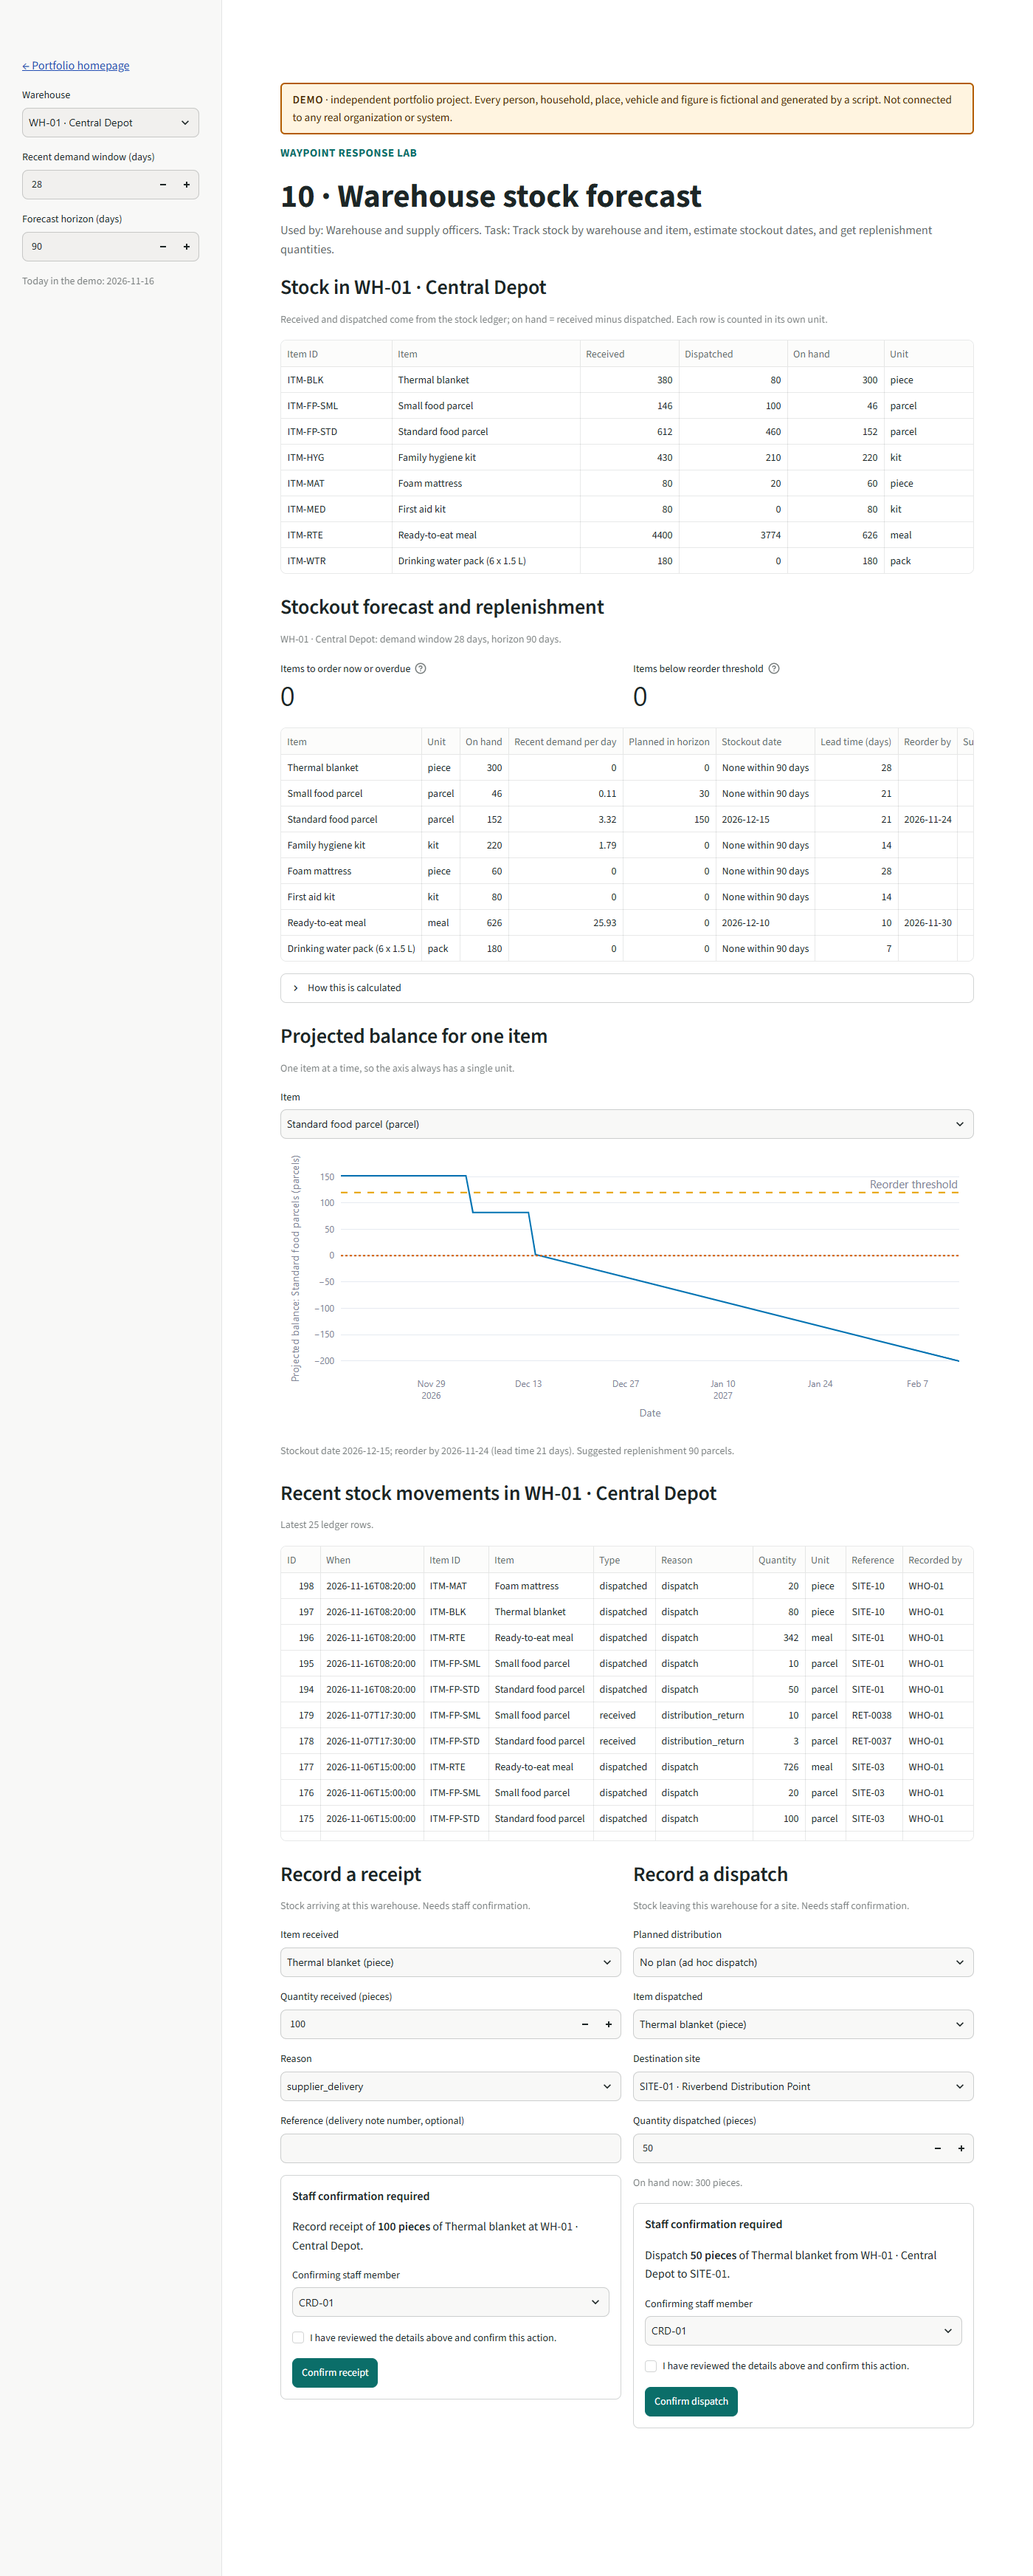
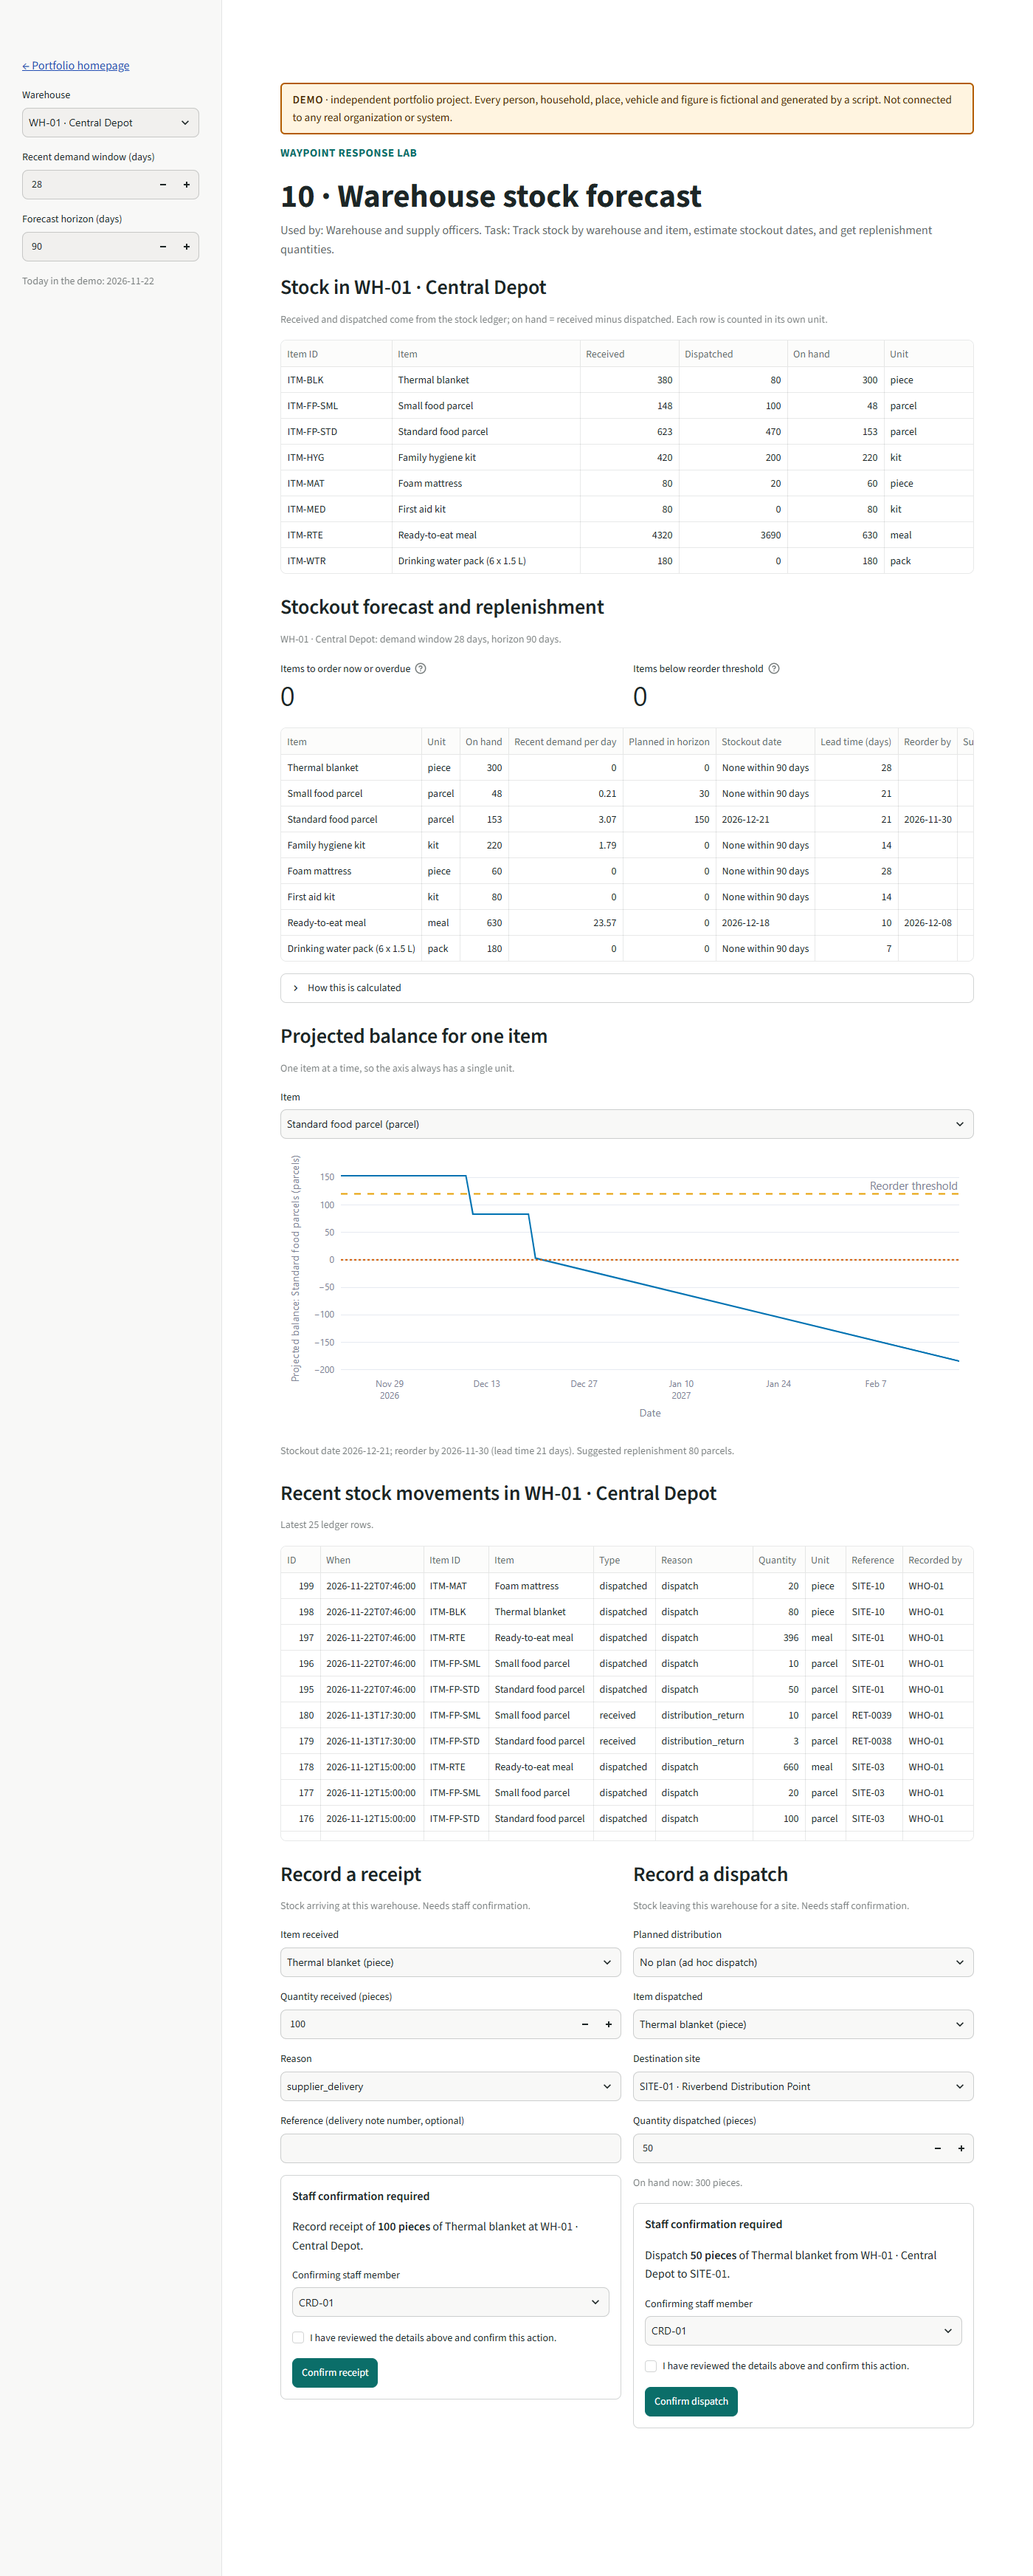
Project 10: review fixes

diff --git a/projects/10-warehouse-stock-forecast/README.md b/projects/10-warehouse-stock-forecast/README.md
@@ -55,10 +55,10 @@ Port 8510.
 
 The seeded dates move with the seed's anchor, so steps use relative dates. Values below are for the standard seed with the demo clock at its anchor day ("today"). Pick warehouse **WH-01 · Central Depot** in the sidebar.
 
-1. **Received minus dispatched equals on hand.** In the stock table find *Standard food parcel* (`ITM-FP-STD`, unit parcel). Expected: received 612, dispatched 460, on hand 152 (612 - 460 = 152).
-2. **Stockout date and replenishment.** In the forecast table, same row. Expected: planned in horizon 150 parcels (two open plans, `PLN-0051` 70 parcels about 19 days ahead and `PLN-0057` 80 parcels about 28 days ahead), recent demand 3.32 parcels per day, stockout date today + 29 days, reorder by today + 8 days (lead time 21 days), suggested replenishment 90 parcels, not flagged below threshold (on hand 152 is above the threshold of 120). The "How this is calculated" box explains each column. The chart (item *Standard food parcel*) shows the balance falling in steps on the two plan dates, then sloping down at the recent rate until it crosses zero.
-3. **Record a receipt.** Under "Record a receipt" choose *Standard food parcel*, quantity 100, reason supplier_delivery, tick the confirmation box and press "Confirm receipt" as a warehouse officer or coordinator (for example `WHO-01`). Expected: a green message, on hand 252 (712 received), the new movement at the top of the ledger list, the stockout date moves to today + 59 days, reorder by today + 38 days, suggested replenishment 0. Without the tick, or as another role, nothing is recorded.
-4. **Dispatch against a plan (optional).** Under "Record a dispatch" choose plan `PLN-0051`, confirm. Expected: on hand drops by 70, the plan is marked dispatched and disappears from the plan list and from planned demand.
+1. **Received minus dispatched equals on hand.** In the stock table find *Standard food parcel* (`ITM-FP-STD`, unit parcel). Expected: received 623, dispatched 470, on hand 153 (623 - 470 = 153).
+2. **Stockout date and replenishment.** In the forecast table, same row. Expected: planned in horizon 150 parcels (two open plans, `PLN-0052` 70 parcels about 19 days ahead and `PLN-0058` 80 parcels about 28 days ahead), recent demand 3.07 parcels per day, stockout date today + 29 days, reorder by today + 8 days (lead time 21 days), suggested replenishment 80 parcels, not flagged below threshold (on hand 153 is above the threshold of 120). The "How this is calculated" box explains each column. The chart (item *Standard food parcel*) shows the balance falling in steps on the two plan dates, then sloping down at the recent rate until it crosses zero.
+3. **Record a receipt.** Under "Record a receipt" choose *Standard food parcel*, quantity 100, reason supplier_delivery, tick the confirmation box and press "Confirm receipt" as a warehouse officer or coordinator (for example `WHO-01`). Expected: a green message, on hand 253 (723 received), the new movement at the top of the ledger list, the stockout date moves to today + 62 days, reorder by today + 41 days, suggested replenishment 0. Without the tick, or as another role, nothing is recorded.
+4. **Dispatch against a plan (optional).** Under "Record a dispatch" choose plan `PLN-0052`, confirm. Expected: on hand drops by 70, the plan is marked dispatched and disappears from the plan list and from planned demand.
 
 ## Tests
 
